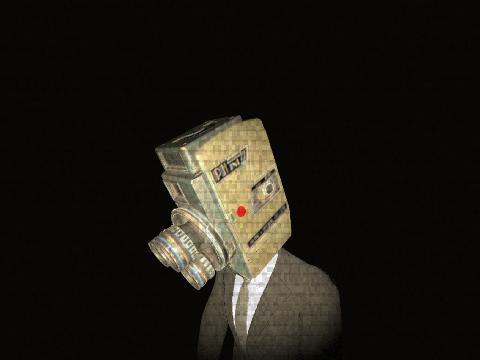
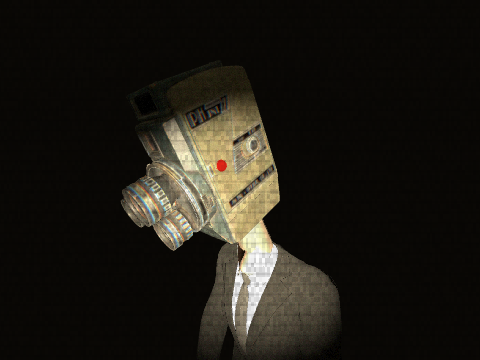
Cadreur costume : ajout d'un cou entre le col et la tête-caméra
Claude-Session: https://claude.ai/code/session_01CjXzNmpvYt6g59AJ4HSeD3

Changed region(s): [[0.25, 0.1833, 0.625, 0.8556], [0.4688, 0.8861, 0.5312, 0.9167]]

diff --git a/src/world/cadreurModel.ts b/src/world/cadreurModel.ts
@@ -22,6 +22,8 @@ const BODY_SCALE = 1.12;
 /** Distance parcourue par cycle de marche de l'animation (m, à l'échelle du monstre). */
 const STRIDE_LENGTH = 1.35 * BODY_SCALE;
 const CAMCORDER_SCALE = 3;
+/** Relèvement de la tête-caméra sur le corps en costume, pour montrer un cou (m). */
+const SUIT_NECK_LIFT = 0.14;
 /** Allongement des avant-bras. */
 const FOREARM_STRETCH = 1.35;
 /** Dos voûté, tête rentrée (radians). */
@@ -106,7 +108,23 @@ export async function loadCadreur(options: LoadCadreurOptions = {}): Promise<Cad
   // vers l'avant du corps en pose de référence, puis la caméra suit le cou.
   camera.position.copy(head.position).add(new THREE.Vector3(0, 0.01 / neckScale, 0.04 / neckScale));
   camera.quaternion.copy(neck.getWorldQuaternion(new THREE.Quaternion()).invert());
+  // Corps en costume : la caméra est relevée pour laisser voir un cou entre le col et le boîtier.
+  if (options.suit) camera.position.add(new THREE.Vector3(0, SUIT_NECK_LIFT / neckScale, 0).applyQuaternion(camera.quaternion));
   neck.add(camera);
+
+  // Le crâne écrasé emporte le cou du modèle en costume : on lui rend un cou (tronc de cône de
+  // peau blafarde) qui monte du col jusque dans le boîtier de la caméra.
+  if (options.suit) {
+    const neckLength = head.position.length() + (0.09 + SUIT_NECK_LIFT) / neckScale;
+    const neckMaterial = new THREE.MeshStandardMaterial({ color: 0x7a6a5c, roughness: 0.7, side: THREE.DoubleSide });
+    applyVhsEffect(neckMaterial);
+    const stem = new THREE.Mesh(new THREE.CylinderGeometry(0.046 / neckScale, 0.058 / neckScale, neckLength, 12, 1, true), neckMaterial);
+    stem.position.set(0, neckLength / 2 - 0.03 / neckScale, 0.005 / neckScale);
+    stem.position.applyQuaternion(camera.quaternion);
+    stem.quaternion.copy(camera.quaternion);
+    stem.name = "cadreurNeck";
+    neck.add(stem);
+  }
 
   const led = new THREE.Mesh(new THREE.SphereGeometry(0.005, 8, 6), new THREE.MeshBasicMaterial({ color: 0xff2a1a, fog: false, toneMapped: false }));
   led.position.set(0.028, 0.07, 0.015);

diff --git a/tests/browser/cadreur-suit-render.test.ts b/tests/browser/cadreur-suit-render.test.ts
@@ -23,7 +23,7 @@ import { VhsOverlay } from "../../src/player/vhsOverlay";
 import { createLogger, createRenderer, createStageController } from "./support/harness";
 
 const { log } = createLogger();
-const stages = createStageController(["WATCHED", "FROZEN", "HUNTING", "NECK_FRONT", "NECK_34", "NECK_SIDE"]);
+const stages = createStageController(["WATCHED", "FROZEN", "HUNTING", "NECK_FRONT", "NECK_34", "NECK_SIDE", "NECK_BACK"]);
 
 // Mêmes valeurs que main.ts (fond/brouillard) et flashlight.ts (lampe torche).
 const BACKGROUND_COLOR = 0x0a0805;
@@ -106,11 +106,14 @@ async function run(): Promise<void> {
   rig.root.position.set(0, 0, -1.2);
   rig.root.rotation.y = 0;
   settle(0, new THREE.Vector3(0, 1.8, 0), 45);
+  const stemObj = rig.root.getObjectByName("cadreurNeck");
+  if (stemObj) log(`cou: ${JSON.stringify(new THREE.Box3().setFromObject(stemObj))} scale ${JSON.stringify(stemObj.getWorldScale(new THREE.Vector3()))}`);
   const neckTarget = new THREE.Vector3(0, 1.8, -1.2);
   const shots: Array<[string, THREE.Vector3]> = [
     ["NECK_FRONT", new THREE.Vector3(0, 1.85, -0.35)],
     ["NECK_34", new THREE.Vector3(0.6, 1.9, -0.65)],
     ["NECK_SIDE", new THREE.Vector3(0.8, 1.85, -1.2)],
+    ["NECK_BACK", new THREE.Vector3(0.1, 1.9, -2.2)],
   ];
   let shotTime = 4;
   for (const [name, position] of shots) {
